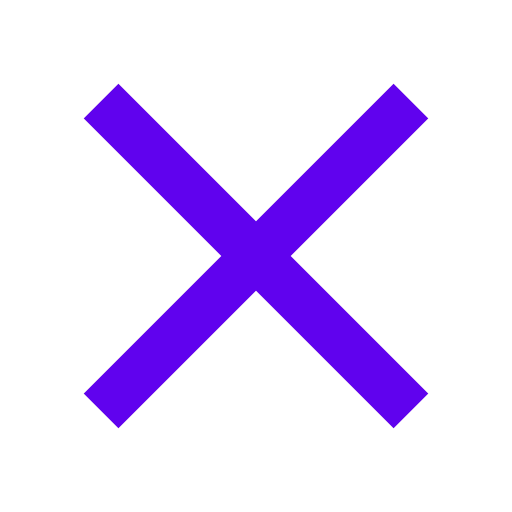
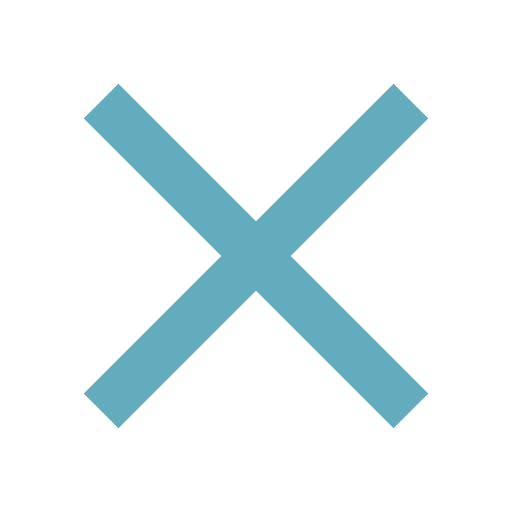
Fixed null pointer, minor color changes

Changed region(s): [[0.1562, 0.1562, 0.8438, 0.8438]]

diff --git a/app/src/main/java/com/wiley/fordummies/androidsdk/tictactoe/ui/Board.java b/app/src/main/java/com/wiley/fordummies/androidsdk/tictactoe/ui/Board.java
@@ -27,7 +27,6 @@ public class Board extends View {
     private GameGrid mGameGrid = null;
     private boolean mIsEnabled = true;
 
-    private Paint mBackgroundPaint;
     private Paint mGridPaint;
     private Paint mDitherPaint;
 
@@ -46,8 +45,6 @@ public class Board extends View {
         setFocusableInTouchMode(true);
 
         // Allocate Paint objects to save memory.
-        mBackgroundPaint = new Paint(Paint.ANTI_ALIAS_FLAG);
-        mBackgroundPaint.setColor(ContextCompat.getColor(context, R.color.background_light));
         mGridPaint = new Paint(Paint.ANTI_ALIAS_FLAG);
         mGridPaint.setColor(ContextCompat.getColor(context, R.color.grid));
 
@@ -194,7 +191,7 @@ public class Board extends View {
         }
 
 
-        Bitmap symSelected = null;
+        Bitmap symSelected = sSymBlank;
 
         if (aSymbol == Symbol.SymbolXCreate())
             symSelected = sSymX;
